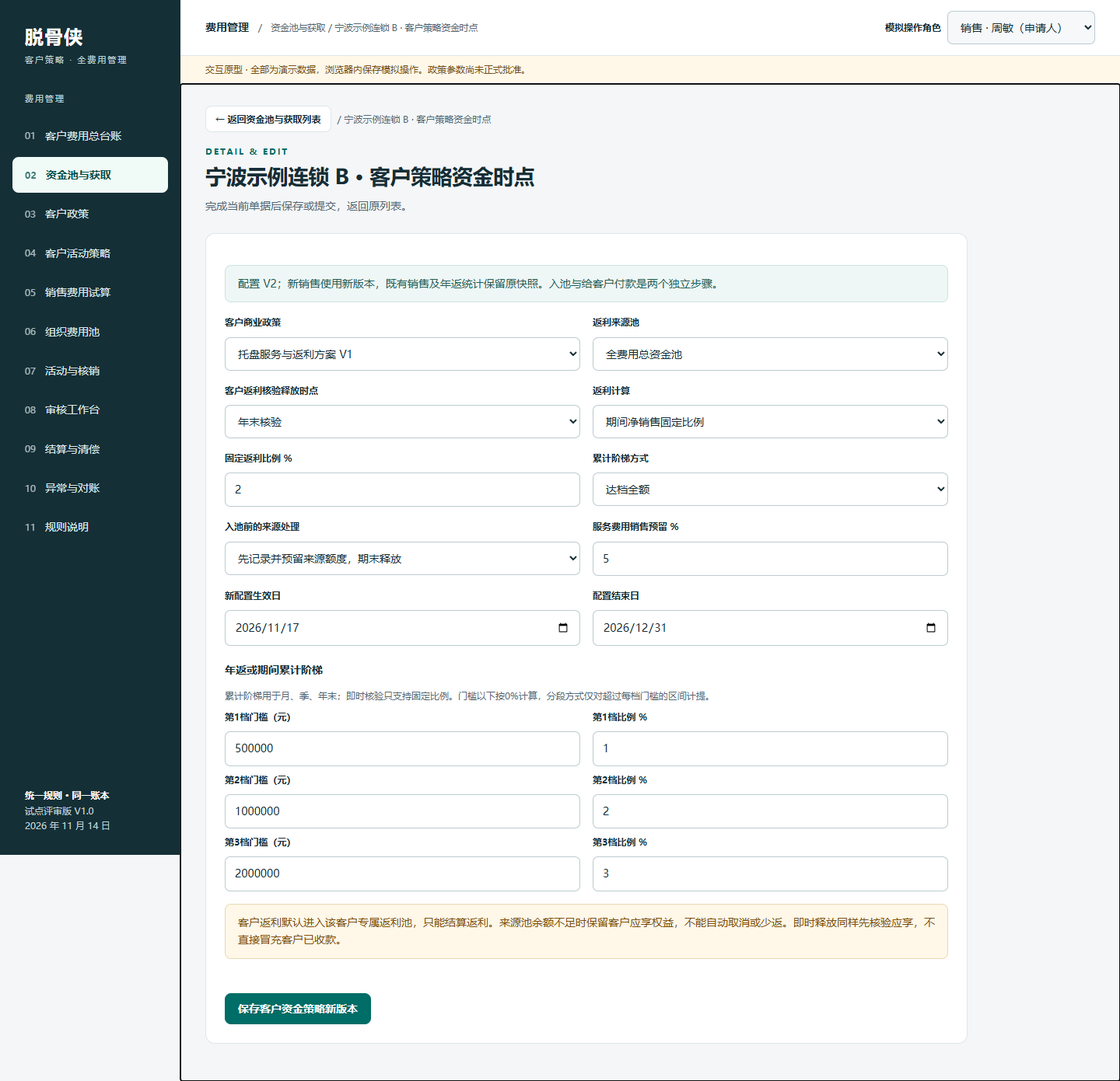
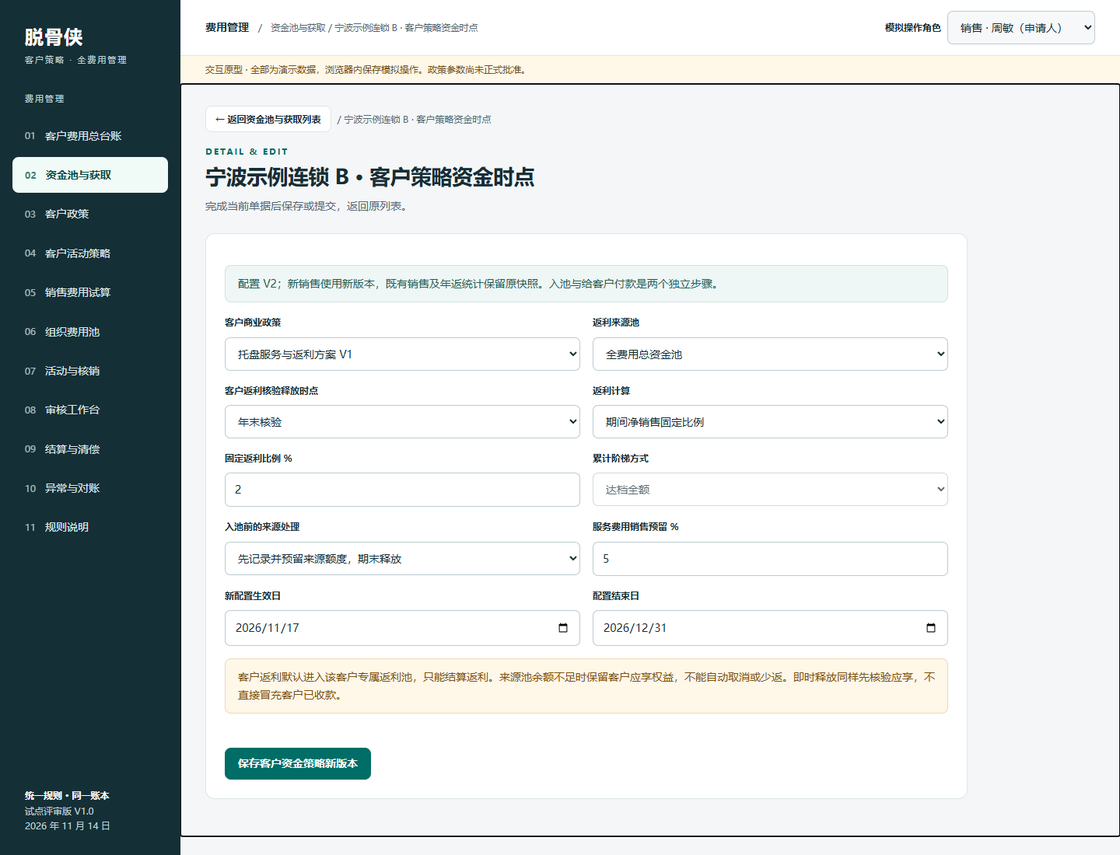
Auto sync 2026-11-17 11:57:51

diff --git a/09-设计与原型/全费用管理/原型.html b/09-设计与原型/全费用管理/原型.html
@@ -1802,8 +1802,8 @@ function fundingPeriodView(){return`<section class="card">${table(['期间 / 类
 function fundingFlowsView(){const f=state.funding;return`<section class="card"><h2>销售获取入池流水</h2>${table(['流水','目标池 / 客户','来源销售或批次','入池 / 服务预留 / 即时返利预留','日期'],f.credits.map(c=>[c.id,c.pool+' / '+customer(c.customer).name,c.sale||c.batch,money(c.amount)+' / '+money(c.service||0)+' / '+money(c.rebate||0),c.date]))}<h2 style="margin-top:24px">返利来源划拨</h2>${table(['流水','来源 → 返利专属池','客户 / 批次','金额','日期'],f.transfers.map(t=>[t.id,t.source+' → '+t.target,customer(t.customer).name+' / '+t.batch,money(t.amount),t.date]))}<h2 style="margin-top:24px">已发放返利</h2>${table(['清偿流水','客户 / 批次','方式','金额','业务日期'],f.payouts.map(p=>[esc(p.ref),customer(p.customer).name+' / '+p.batch,p.method==='cash'?'现金':'货款抵扣',money(p.amount),p.date]))}</section>`}
 function openFundingPool(id){const p=state.funding.pools.find(p=>p.id===id)||{name:'',initial:0,cap:10000000,from:FUND_CUTOVER,to:'2026-12-31',kind:'operating',status:'draft',ratios:[10,20,20,50]},active=p.status==='active';launchPage({kind:'fundingPool',id},()=>showModal(id?'资金池配置':'新建资金池',`<form id="fundingPoolForm" data-id="${id||''}"><div class="fields">${ff('fpName','资金池名称 *',p.name,'text','required maxlength="60"')}${ff('fpInitial','初始来源（元）',p.initial/100,'number',`min="0" step="0.01" required ${active?'readonly':''}`)}${ff('fpCap','预算上限（元）',p.kind==='rebate'?p.initial/100:p.cap/100,'number',`min="0" step="0.01" required ${p.kind==='rebate'?'readonly':''}`)}${ff('fpFrom','开始日期',p.from,'date','required')}${ff('fpTo','结束日期',p.to,'date','required')}${(p.ratios||[0,0,0,100]).map((v,i)=>ff('fpRatio'+i,['总部','中心','大区','省区'][i]+'分配 %',v,'number',`min="0" max="100" step="0.01" required ${active?'readonly':''}`)).join('')}</div><p class="note">启用后初始来源及组织比例固定，补充资金可新建独立来源池，避免改写历史。修改上限由财务角色处理，不能降到已使用和承诺之下。</p><p id="fundingError" class="error-text" role="alert"></p><button class="primary">保存资金池配置</button></form>`))}
 function fundingTierFields(prefix,tiers){return tiers.map((t,i)=>`<div class="fields" style="margin-top:8px">${ff(prefix+'Min'+i,'第'+(i+1)+'档门槛（元）',t.min/100,'number','min="0" step="0.01" required')}${ff(prefix+'Rate'+i,'第'+(i+1)+'档比例 %',t.rate,'number','min="0" max="100" step="0.01" required')}</div>`).join('')}
-function openFundingRule(id){const r=state.funding.rules.find(r=>r.id===id)||{name:'',pool:MAIN_POOL,customer:'*',sku:'*',method:'rate',rate:10,unit:100,timing:'instant',from:FUND_CUTOVER,to:'2026-12-31',tiers:[{min:5000000,rate:1},{min:10000000,rate:2},{min:20000000,rate:3}]};launchPage({kind:'fundingRule',id},()=>showModal('资金获取规则'+(id?'新版本':''),`<form id="fundingRuleForm" data-id="${id||''}"><div class="fields">${ff('frName','规则名称 *',r.name,'text','required')}${fs('frPool','目标资金池',state.funding.pools.filter(p=>p.kind==='operating'&&p.status==='active').map(p=>[p.id,p.name]),r.pool)}${fs('frCustomer','适用客户',[['*','全部客户'],...customers.map(c=>[c.id,c.name])],r.customer)}${ff('frSku','适用 SKU，* 为全部',r.sku,'text','required')}${fs('frMethod','获取方式',[['rate','销售金额比例'],['quantity','每数量固定金额'],['tier','单笔金额阶梯达档全额']],r.method)}${ff('frRate','金额比例 %',r.rate,'number','min="0" max="100" step="0.01" required')}${ff('frUnit','每数量获取（元）',r.unit/100,'number','min="0" step="0.01" required')}${fs('frTiming','入池时点',Object.entries(fundingTiming),r.timing)}${ff('frFrom','生效日期',r.from,'date','required')}${ff('frTo','结束日期',r.to,'date','required')}</div><h3>单笔阶梯（选择阶梯方式时生效）</h3>${fundingTierFields('fr',r.tiers)}<p class="note">完成签收后自动匹配。月、季、年末方式只先记录待入池，核验审批后才增加可用来源。保存新版本不会重算历史销售。</p><p id="fundingError" class="error-text" role="alert"></p><button class="primary">保存规则新版本</button></form>`))}
-function openFundingBinding(id){const l=state.funding.bindings.find(l=>l.id===id);launchPage({kind:'fundingBinding',id},()=>showModal(customer(l.customer).name+' · 客户策略资金时点',`<form id="fundingBindingForm" data-id="${id}"><div class="banner">配置 V${l.version}；新销售使用新版本，既有销售及年返统计保留原快照。入池与给客户付款是两个独立步骤。</div><div class="fields">${fs('fbPolicy','客户商业政策',state.policySchemes.filter(p=>p.customer===l.customer&&p.status==='active').map(p=>[p.id,p.name+' V'+p.version]),l.policyId)}${fs('fbPool','返利来源池',state.funding.pools.filter(p=>p.kind==='operating'&&p.status==='active').map(p=>[p.id,p.name]),l.sourcePool)}${fs('fbTiming','客户返利核验释放时点',Object.entries(fundingTiming),l.rebateTiming)}${fs('fbMethod','返利计算',[['rate','期间净销售固定比例'],['tier','期间累计阶梯']],l.rebateMethod)}${ff('fbRate','固定返利比例 %',l.rebateRate,'number','min="0" max="100" step="0.01" required')}${fs('fbTierMode','累计阶梯方式',[['whole','达档全额'],['segment','按区间分段']],l.tierMode)}${fs('fbLock','入池前的来源处理',[['no','先记录，期末再从来源池划拨'],['yes','先记录并预留来源额度，期末释放']],l.lockEarly?'yes':'no')}${ff('fbService','服务费用销售预留 %',l.serviceRate,'number','min="0" max="100" step="0.01" required')}${ff('fbFrom','新配置生效日',l.from,'date','required')}${ff('fbTo','配置结束日',l.to,'date','required')}</div><h3>年返或期间累计阶梯</h3><p class="note">累计阶梯用于月、季、年末；即时核验只支持固定比例。门槛以下按0%计算，分段方式仅对超过每档门槛的区间计提。</p>${fundingTierFields('fb',l.tiers)}<div class="banner warn">客户返利默认进入该客户专属返利池，只能结算返利。来源池余额不足时保留客户应享权益，不能自动取消或少返。即时释放同样先核验应享，不直接冒充客户已收款。</div><p id="fundingError" class="error-text" role="alert"></p><button class="primary">保存客户资金策略新版本</button></form>`))}
+function openFundingRule(id){const r=state.funding.rules.find(r=>r.id===id)||{name:'',pool:MAIN_POOL,customer:'*',sku:'*',method:'rate',rate:10,unit:100,timing:'instant',from:FUND_CUTOVER,to:'2026-12-31',tiers:[{min:5000000,rate:1},{min:10000000,rate:2},{min:20000000,rate:3}]};launchPage({kind:'fundingRule',id},()=>showModal('资金获取规则'+(id?'新版本':''),`<form id="fundingRuleForm" data-id="${id||''}"><div class="fields">${ff('frName','规则名称 *',r.name,'text','required')}${fs('frPool','目标资金池',state.funding.pools.filter(p=>p.kind==='operating'&&p.status==='active').map(p=>[p.id,p.name]),r.pool)}${fs('frCustomer','适用客户',[['*','全部客户'],...customers.map(c=>[c.id,c.name])],r.customer)}${ff('frSku','适用 SKU，* 为全部',r.sku,'text','required')}${fs('frMethod','获取方式',[['rate','销售金额比例'],['quantity','每数量固定金额'],['tier','单笔金额阶梯达档全额']],r.method)}${ff('frRate','金额比例 %',r.rate,'number','min="0" max="100" step="0.01" required')}${ff('frUnit','每数量获取（元）',r.unit/100,'number','min="0" step="0.01" required')}${fs('frTiming','入池时点',Object.entries(fundingTiming),r.timing)}${ff('frFrom','生效日期',r.from,'date','required')}${ff('frTo','结束日期',r.to,'date','required')}</div><section id="frTierSection"><h3>单笔阶梯</h3>${fundingTierFields('fr',r.tiers)}</section><p class="note">完成签收后自动匹配。月、季、年末方式只先记录待入池，核验审批后才增加可用来源。保存新版本不会重算历史销售。</p><p id="fundingError" class="error-text" role="alert"></p><button class="primary">保存规则新版本</button></form>`))}
+function openFundingBinding(id){const l=state.funding.bindings.find(l=>l.id===id);launchPage({kind:'fundingBinding',id},()=>showModal(customer(l.customer).name+' · 客户策略资金时点',`<form id="fundingBindingForm" data-id="${id}"><div class="banner">配置 V${l.version}；新销售使用新版本，既有销售及年返统计保留原快照。入池与给客户付款是两个独立步骤。</div><div class="fields">${fs('fbPolicy','客户商业政策',state.policySchemes.filter(p=>p.customer===l.customer&&p.status==='active').map(p=>[p.id,p.name+' V'+p.version]),l.policyId)}${fs('fbPool','返利来源池',state.funding.pools.filter(p=>p.kind==='operating'&&p.status==='active').map(p=>[p.id,p.name]),l.sourcePool)}${fs('fbTiming','客户返利核验释放时点',Object.entries(fundingTiming),l.rebateTiming)}${fs('fbMethod','返利计算',[['rate','期间净销售固定比例'],['tier','期间累计阶梯']],l.rebateMethod)}${ff('fbRate','固定返利比例 %',l.rebateRate,'number','min="0" max="100" step="0.01" required')}${fs('fbTierMode','累计阶梯方式',[['whole','达档全额'],['segment','按区间分段']],l.tierMode)}${fs('fbLock','入池前的来源处理',[['no','先记录，期末再从来源池划拨'],['yes','先记录并预留来源额度，期末释放']],l.lockEarly?'yes':'no')}${ff('fbService','服务费用销售预留 %',l.serviceRate,'number','min="0" max="100" step="0.01" required')}${ff('fbFrom','新配置生效日',l.from,'date','required')}${ff('fbTo','配置结束日',l.to,'date','required')}</div><section id="fbTierSection"><h3>年返或期间累计阶梯</h3><p class="note">累计阶梯用于月、季、年末；即时核验只支持固定比例。门槛以下按0%计算，分段方式仅对超过每档门槛的区间计提。</p>${fundingTierFields('fb',l.tiers)}</section><div class="banner warn">客户返利默认进入该客户专属返利池，只能结算返利。来源池余额不足时保留客户应享权益，不能自动取消或少返。即时释放同样先核验应享，不直接冒充客户已收款。</div><p id="fundingError" class="error-text" role="alert"></p><button class="primary">保存客户资金策略新版本</button></form>`))}
 function openFundingSale(){launchPage({kind:'fundingSale'},()=>showModal('登记销售完成事件',`<form id="fundingSaleForm"><div class="fields">${fs('saleKind','业务事件',[['sale','有效签收销售'],['return','关联原销售退货']],'sale')}${fs('saleCustomer','归属客户',customers.map(c=>[c.id,c.name]),'A')}${ff('saleDoc','来源订单 / 退货单号 *','','text','required maxlength="60"')}${ff('saleLine','来源行号 *','1','text','required maxlength="30"')}${ff('saleSku','销售 SKU *','TGX-DEMO-001','text','required')}${ff('saleAmount','不含税净销售 / 本次退货金额（元）',100000,'number','min="0.01" step="0.01" required')}${ff('saleQty','销售 / 退货数量',100,'number','min="0" step="0.01" required')}${ff('saleDate','签收 / 退货业务日期',state.funding.date,'date','required')}${fs('saleOriginal','退货关联原销售（销售事件时不使用）',[['','请选择'],...state.funding.sales.filter(s=>s.kind==='sale').map(s=>[s.id,s.id+' / '+customer(s.customer).name+' / '+s.doc])],'','disabled')}</div><p class="note">退货继承原客户、政策、获取规则及统计期间。提交后生成有来源的入池流水，重复订单行不会重复入池。</p><p id="fundingError" class="error-text" role="alert"></p><button class="primary">确认销售事件并同步资金池</button></form>`))}
 function openFundingBatch(id){const b=state.funding.batches.find(b=>b.id===id);launchPage({kind:'fundingBatch',id},()=>showModal('期间核验 · '+b.id,`<h2>${b.kind==='earn'?'销售获取入池':'客户返利释放'} · ${customer(b.customer).name}</h2>${table(['事项','内容'],[['期间',b.period.key+'，截止 '+b.period.end],['累计计费基数',money(b.basis)],['本次审批差额',money(b.amount)],['目标',b.kind==='rebate'?'从 '+b.pool+' 划拨至客户返利专属池，形成返利应付':'增加 '+b.pool+' 已获取来源'],['当前状态',b.status==='pending'?'待 '+roles[['business','finance'][b.step]]:b.status]])}<h3>审批记录</h3>${table(['岗位','动作','业务日 / 意见'],b.logs.map(l=>[roles[l.who],l.action,l.date+' / '+esc(l.note||'—')]))}${b.status==='pending'?`<label for="fundingOpinion">意见（驳回必填）</label><textarea id="fundingOpinion"></textarea><p id="fundingError" class="error-text" role="alert"></p><div class="actions"><button data-funding-reject="${id}" class="danger">驳回</button><button data-funding-approve="${id}" class="primary">通过当前节点</button></div>`:''}<p class="note">核验通过不等于客户已收到款项。返利批次审批后，在结算与清偿中登记发放；原销售、统计快照及流水保留。</p>`))}
 function openFundingPayout(id){const b=state.funding.batches.find(b=>b.id===id),paid=sum(state.funding.payouts.filter(p=>p.batch===id).map(p=>p.amount));if($('role').value!=='finance')return toast('请切换为财务角色登记返利发放。',true);showModal('客户返利发放',`<form id="fundingPayoutForm" data-id="${id}"><p>${customer(b.customer).name} / ${id}，尚未清偿 ${money(b.amount-paid)}</p>${ff('rebatePayAmount','本次发放（元）',(b.amount-paid)/100,'number','min="0.01" step="0.01" required')}${fs('rebatePayMethod','发放方式',[['cash','现金支付'],['offset','货款抵扣']],'cash')}${ff('rebatePayRef','财务回写流水号 *','','text','required')}<p id="fundingError" class="error-text" role="alert"></p><button class="primary">确认返利清偿回写</button></form>`)}
@@ -1823,14 +1823,17 @@ document.addEventListener('click',e=>{const b=e.target.closest('button');if(!b)r
 document.addEventListener('change',e=>{if(e.target.id==='fundingDate'){if(!/^\d{4}-\d{2}-\d{2}$/.test(e.target.value))return;state.funding.date=e.target.value;save();render();toast('仅切换本地模拟业务日，未自动提前入池。')}});
 document.addEventListener('submit',e=>{const f=e.target;if(!['fundingPoolForm','fundingRuleForm','fundingBindingForm','fundingSaleForm','fundingPayoutForm'].includes(f.id))return;e.preventDefault();try{if(!f.reportValidity())return;const data=state.funding;
  if(f.id==='fundingPoolForm'){requireFundingFinance();const old=data.pools.find(p=>p.id===f.dataset.id);if(old?.kind==='rebate')throw Error('客户返利池由批准批次自动维护，不能手动注资或改用途。');const ratios=[0,1,2,3].map(i=>Number($('fpRatio'+i).value));if(old?.status==='active'&&ratios.some((v,i)=>v!==old.ratios[i]))throw Error('已启用池的组织比例固定，请新建资金池承接新的分配。');if(Math.abs(sum(ratios)-100)>.00001)throw Error('组织分配比例合计必须为100%。');if($('fpFrom').value>$('fpTo').value)throw Error('结束日期不能早于开始日期。');const initial=old?.status==='active'?old.initial:cents($('fpInitial').value),cap=cents($('fpCap').value);if(cap<initial)throw Error('预算上限不能低于初始来源。');if(old&&cap<fundingPoolTotals(old.id).source)throw Error('上限不能低于已形成的有效来源。');const p={...(old||{id:nextId('POOL-',data.pools),status:'draft',kind:'operating'}),name:$('fpName').value.trim(),initial,cap,ratios,from:$('fpFrom').value,to:$('fpTo').value};if(!p.name)throw Error('请填写名称。');if(old)data.pools[data.pools.indexOf(old)]=p;else data.pools.push(p);save();finishDetail();return toast('资金池配置已保存；新池需财务启用后才能获取资金。')}
- if(f.id==='fundingRuleForm'){requireFundingFinance();const old=data.rules.find(r=>r.id===f.dataset.id),pool=data.pools.find(p=>p.id===$('frPool').value),from=$('frFrom').value,to=$('frTo').value;if(from>to||from<pool.from||to>pool.to)throw Error('规则有效期应处于目标资金池期间内。');const r={id:old?.id||nextId('GET-',data.rules),version:(old?.version||0)+1,name:$('frName').value.trim(),pool:pool.id,customer:$('frCustomer').value,sku:$('frSku').value.trim(),method:$('frMethod').value,rate:Number($('frRate').value),unit:cents($('frUnit').value),timing:$('frTiming').value,tiers:readFundingTiers('fr'),from,to,status:'active'};if(!r.name||!r.sku)throw Error('规则名称及 SKU 不能为空。');if(old){data.ruleVersions=data.ruleVersions||[];data.ruleVersions.push(clone(old));data.rules[data.rules.indexOf(old)]=r}else data.rules.push(r);save();finishDetail();return toast('新版本规则已生效，原销售快照不变。')}
- if(f.id==='fundingBindingForm'){requireFundingFinance();const old=data.bindings.find(l=>l.id===f.dataset.id),policy=state.policySchemes.find(p=>p.id===$('fbPolicy').value),from=$('fbFrom').value,to=$('fbTo').value;if(!policy||policy.customer!==old.customer||from>to||from<policy.from||to>policy.to)throw Error('客户策略期间必须在所选商业政策期间内。');const l={...clone(old),version:old.version+1,policyId:policy.id,sourcePool:$('fbPool').value,rebateTiming:$('fbTiming').value,rebateMethod:$('fbMethod').value,rebateRate:Number($('fbRate').value),tierMode:$('fbTierMode').value,lockEarly:$('fbLock').value==='yes',serviceRate:Number($('fbService').value),tiers:readFundingTiers('fb'),from,to};if(l.rebateTiming==='instant'&&l.rebateMethod==='tier')throw Error('累计阶梯请使用月末、季末或年末核验；即时核验使用固定比例。');data.bindingVersions=data.bindingVersions||[];data.bindingVersions.push(clone(old));data.bindings[data.bindings.indexOf(old)]=l;save();finishDetail();return toast('客户策略资金时点已保存，新销售使用新版本。')}
+ if(f.id==='fundingRuleForm'){requireFundingFinance();const old=data.rules.find(r=>r.id===f.dataset.id),pool=data.pools.find(p=>p.id===$('frPool').value),from=$('frFrom').value,to=$('frTo').value;if(from>to||from<pool.from||to>pool.to)throw Error('规则有效期应处于目标资金池期间内。');const r={id:old?.id||nextId('GET-',data.rules),version:(old?.version||0)+1,name:$('frName').value.trim(),pool:pool.id,customer:$('frCustomer').value,sku:$('frSku').value.trim(),method:$('frMethod').value,rate:Number($('frRate').value),unit:cents($('frUnit').value),timing:$('frTiming').value,tiers:$('frMethod').value==='tier'?readFundingTiers('fr'):clone(old?.tiers||[{min:5000000,rate:1},{min:10000000,rate:2},{min:20000000,rate:3}]),from,to,status:'active'};if(!r.name||!r.sku)throw Error('规则名称及 SKU 不能为空。');if(old){data.ruleVersions=data.ruleVersions||[];data.ruleVersions.push(clone(old));data.rules[data.rules.indexOf(old)]=r}else data.rules.push(r);save();finishDetail();return toast('新版本规则已生效，原销售快照不变。')}
+ if(f.id==='fundingBindingForm'){requireFundingFinance();const old=data.bindings.find(l=>l.id===f.dataset.id),policy=state.policySchemes.find(p=>p.id===$('fbPolicy').value),from=$('fbFrom').value,to=$('fbTo').value;if(!policy||policy.customer!==old.customer||from>to||from<policy.from||to>policy.to)throw Error('客户策略期间必须在所选商业政策期间内。');const l={...clone(old),version:old.version+1,policyId:policy.id,sourcePool:$('fbPool').value,rebateTiming:$('fbTiming').value,rebateMethod:$('fbMethod').value,rebateRate:Number($('fbRate').value),tierMode:$('fbTierMode').value,lockEarly:$('fbLock').value==='yes',serviceRate:Number($('fbService').value),tiers:$('fbMethod').value==='tier'?readFundingTiers('fb'):clone(old.tiers),from,to};if(l.rebateTiming==='instant'&&l.rebateMethod==='tier')throw Error('累计阶梯请使用月末、季末或年末核验；即时核验使用固定比例。');data.bindingVersions=data.bindingVersions||[];data.bindingVersions.push(clone(old));data.bindings[data.bindings.indexOf(old)]=l;save();finishDetail();return toast('客户策略资金时点已保存，新销售使用新版本。')}
  if(f.id==='fundingSaleForm'){if($('role').value!=='sales')throw Error('请切换为销售角色提交销售完成事件。');const s=postFundingSale({kind:$('saleKind').value,customer:$('saleCustomer').value,doc:$('saleDoc').value,line:$('saleLine').value,sku:$('saleSku').value.trim(),base:cents($('saleAmount').value),qty:Number($('saleQty').value),date:$('saleDate').value,original:$('saleOriginal').value});log('销售与资金同步',s.id+' / '+s.status+'，获取规则 '+s.rule.id+' V'+s.rule.version);finishDetail();return toast(s.status==='posted'?'销售已入账，资金池及客户数据已更新。':s.status==='period'?'销售已累计，未到期间核验前不增加可用资金。':'销售已记录，超过上限的资金等待处理。')}
  if(f.id==='fundingPayoutForm'){requireFundingFinance();const b=data.batches.find(b=>b.id===f.dataset.id);if(b?.status!=='approved'||b.kind!=='rebate'||data.date<b.period.end)throw Error('该批次尚未满足返利清偿条件。');const group=fundingGroups().find(g=>g.key===b.key);if(group?.delta<0)throw Error('原销售调整后应享减少，先进入冲销或追偿核对，暂停继续发放。');const amount=cents($('rebatePayAmount').value),ref=$('rebatePayRef').value.trim(),paid=sum(data.payouts.filter(p=>p.batch===b.id).map(p=>p.amount));if(data.payouts.some(p=>p.ref===ref)||!ref)throw Error('财务流水号为空或已回写，不能重复发放。');if(amount<=0||amount>b.amount-paid||amount>fundingPoolTotals(b.targetPool).available)throw Error('超过批次应付或客户返利池可用余额。');data.payouts.push({id:nextId('REBATE-PAY-',data.payouts),batch:b.id,pool:b.targetPool,customer:b.customer,amount,ref,method:$('rebatePayMethod').value,date:data.date});log('客户返利清偿',b.id+' / '+money(amount)+'，不再次扣来源池。');closeModal();render();return toast('返利清偿已回写，客户返利池和客户台账已同步。')}
  }catch(error){fundingFail(error)}});
 
-function syncFundingReturnFields(){if(!$('fundingSaleForm'))return;const isReturn=$('saleKind').value==='return',original=$('saleOriginal');original.disabled=!isReturn;original.required=isReturn;$('saleCustomer').disabled=isReturn;$('saleSku').readOnly=isReturn;for(const id of ['saleAmount','saleQty'])$(id).removeAttribute('max');$('saleDate').removeAttribute('min');if(isReturn&&original.value){const s=state.funding.sales.find(s=>s.id===original.value),returns=state.funding.sales.filter(r=>r.original===s.id);$('saleCustomer').value=s.customer;$('saleSku').value=s.sku;const base=s.base+sum(returns.map(r=>r.base)),qty=s.qty+sum(returns.map(r=>r.qty));$('saleAmount').value=base/100;$('saleAmount').max=base/100;$('saleQty').value=qty;$('saleQty').max=qty;$('saleDate').min=s.date;if(!base)$('fundingError').textContent='该原销售已全额退货，请选择其他销售行。'}}
+function syncFundingReturnFields(fill=true){if(!$('fundingSaleForm'))return;const isReturn=$('saleKind').value==='return',original=$('saleOriginal');original.disabled=!isReturn;original.required=isReturn;$('saleCustomer').disabled=isReturn;$('saleSku').readOnly=isReturn;for(const id of ['saleAmount','saleQty'])$(id).removeAttribute('max');$('saleDate').removeAttribute('min');if(isReturn&&original.value){const s=state.funding.sales.find(s=>s.id===original.value),returns=state.funding.sales.filter(r=>r.original===s.id);$('saleCustomer').value=s.customer;$('saleSku').value=s.sku;const base=s.base+sum(returns.map(r=>r.base)),qty=s.qty+sum(returns.map(r=>r.qty));if(fill)$('saleAmount').value=base/100;$('saleAmount').max=base/100;if(fill)$('saleQty').value=qty;$('saleQty').max=qty;$('saleDate').min=s.date;if(!base)$('fundingError').textContent='该原销售已全额退货，请选择其他销售行。'}}
 document.addEventListener('change',e=>{if(['saleKind','saleOriginal'].includes(e.target.id))syncFundingReturnFields()});
+
+function syncFundingConfigVisibility(){const field=(id,show)=>{const node=$(id);if(!node)return;node.closest('.field').hidden=!show;node.disabled=!show},section=(id,show)=>{const node=$(id);if(!node)return;node.hidden=!show;node.querySelectorAll('input,select').forEach(x=>x.disabled=!show)};if($('frMethod')){const m=$('frMethod').value;field('frRate',m==='rate');field('frUnit',m==='quantity');section('frTierSection',m==='tier')}if($('fbMethod')){const tier=$('fbMethod').value==='tier';field('fbRate',!tier);field('fbTierMode',tier);section('fbTierSection',tier)}}
+document.addEventListener('change',e=>{if(['frMethod','fbMethod'].includes(e.target.id))syncFundingConfigVisibility()});
 
 // 将新的销售获取流水接入原组织余额、客户台账、活动审批和清偿，保留旧期初。
 let activityFundingContext=null;const beforeFundingBalances=balances,beforeFundingPools=poolsView,beforeFundingCustomerData=customerLedgerData,beforeFundingCustomerBody=customerLedgerBody,beforeFundingActivity=newActivity,beforeFundingSubmit=submitActivity,beforeFundingApprove=approve,beforeFundingApprovalView=approvalView,beforeFundingSettlement=settlementView,beforeFundingRender=render;
@@ -1847,7 +1850,7 @@ submitActivity=function(form){const id=$('activitySourcePool')?.value||state.act
 approve=function(id,reject=false){const a=state.activities.find(a=>a.id===id);activityFundingContext=a.fundingPoolId||MAIN_POOL;try{return beforeFundingApprove(id,reject)}finally{activityFundingContext=null;if(!detailPage)render()}};
 approvalView=function(){ensureFunding();return beforeFundingApprovalView()+`<section class="card" style="margin-top:24px"><h2>资金入池与客户返利期间核验</h2>${table(['批次 / 期间','客户','类型及金额','节点','操作'],state.funding.batches.filter(b=>b.status==='pending').map(b=>[b.id+' / '+b.period.key,customer(b.customer).name,(b.kind==='earn'?'销售获取':'客户返利')+' '+money(b.amount),roles[['business','finance'][b.step]],`<button data-funding-batch="${b.id}">进入核验</button>`]))}</section>`};
 settlementView=function(){ensureFunding();return beforeFundingSettlement()+`<section class="card" style="margin-top:24px"><h2>客户返利应付与发放</h2>${table(['批次 / 客户','客户专属池','已确认应付','已发放','待付','操作'],state.funding.batches.filter(b=>b.kind==='rebate'&&b.status==='approved').map(b=>{const paid=sum(state.funding.payouts.filter(p=>p.batch===b.id).map(p=>p.amount));return[b.id+' / '+customer(b.customer).name,b.targetPool,money(b.amount),money(paid),money(b.amount-paid),`<button data-funding-payout="${b.id}" ${paid===b.amount?'disabled':''}>${paid===b.amount?'已清偿':'登记客户返利发放'}</button>`]}))}</section>`};
-render=function(){ensureFunding();beforeFundingRender();if(detailPage?.route.kind==='policy'&&$('fullPageBody')){const p=state.policySchemes.find(p=>p.id===detailPage.route.id);if(p)$('fullPageBody').insertAdjacentHTML('beforeend',customerFundingPanel(p.customer))}};
+render=function(){ensureFunding();beforeFundingRender();syncFundingConfigVisibility();syncFundingReturnFields(false);if(detailPage?.route.kind==='policy'&&$('fullPageBody')){const p=state.policySchemes.find(p=>p.id===detailPage.route.id);if(p)$('fullPageBody').insertAdjacentHTML('beforeend',customerFundingPanel(p.customer))}};
 document.addEventListener('click',e=>{const b=e.target.closest('button');if(!b)return;if(b.dataset.fundingGo){fundingTab=b.dataset.fundingGo;navigate('funding')}if(b.dataset.fundingClientConfig){const l=state.funding.bindings.find(l=>l.customer===b.dataset.fundingClientConfig);if(l)openFundingBinding(l.id)}});
 
 const oldFundingSandboxInitial=initialFundSandbox;

diff --git a/09-设计与原型/全费用管理/funding-ui.js b/09-设计与原型/全费用管理/funding-ui.js
@@ -11,8 +11,8 @@ function fundingPeriodView(){return`<section class="card">${table(['期间 / 类
 function fundingFlowsView(){const f=state.funding;return`<section class="card"><h2>销售获取入池流水</h2>${table(['流水','目标池 / 客户','来源销售或批次','入池 / 服务预留 / 即时返利预留','日期'],f.credits.map(c=>[c.id,c.pool+' / '+customer(c.customer).name,c.sale||c.batch,money(c.amount)+' / '+money(c.service||0)+' / '+money(c.rebate||0),c.date]))}<h2 style="margin-top:24px">返利来源划拨</h2>${table(['流水','来源 → 返利专属池','客户 / 批次','金额','日期'],f.transfers.map(t=>[t.id,t.source+' → '+t.target,customer(t.customer).name+' / '+t.batch,money(t.amount),t.date]))}<h2 style="margin-top:24px">已发放返利</h2>${table(['清偿流水','客户 / 批次','方式','金额','业务日期'],f.payouts.map(p=>[esc(p.ref),customer(p.customer).name+' / '+p.batch,p.method==='cash'?'现金':'货款抵扣',money(p.amount),p.date]))}</section>`}
 function openFundingPool(id){const p=state.funding.pools.find(p=>p.id===id)||{name:'',initial:0,cap:10000000,from:FUND_CUTOVER,to:'2026-12-31',kind:'operating',status:'draft',ratios:[10,20,20,50]},active=p.status==='active';launchPage({kind:'fundingPool',id},()=>showModal(id?'资金池配置':'新建资金池',`<form id="fundingPoolForm" data-id="${id||''}"><div class="fields">${ff('fpName','资金池名称 *',p.name,'text','required maxlength="60"')}${ff('fpInitial','初始来源（元）',p.initial/100,'number',`min="0" step="0.01" required ${active?'readonly':''}`)}${ff('fpCap','预算上限（元）',p.kind==='rebate'?p.initial/100:p.cap/100,'number',`min="0" step="0.01" required ${p.kind==='rebate'?'readonly':''}`)}${ff('fpFrom','开始日期',p.from,'date','required')}${ff('fpTo','结束日期',p.to,'date','required')}${(p.ratios||[0,0,0,100]).map((v,i)=>ff('fpRatio'+i,['总部','中心','大区','省区'][i]+'分配 %',v,'number',`min="0" max="100" step="0.01" required ${active?'readonly':''}`)).join('')}</div><p class="note">启用后初始来源及组织比例固定，补充资金可新建独立来源池，避免改写历史。修改上限由财务角色处理，不能降到已使用和承诺之下。</p><p id="fundingError" class="error-text" role="alert"></p><button class="primary">保存资金池配置</button></form>`))}
 function fundingTierFields(prefix,tiers){return tiers.map((t,i)=>`<div class="fields" style="margin-top:8px">${ff(prefix+'Min'+i,'第'+(i+1)+'档门槛（元）',t.min/100,'number','min="0" step="0.01" required')}${ff(prefix+'Rate'+i,'第'+(i+1)+'档比例 %',t.rate,'number','min="0" max="100" step="0.01" required')}</div>`).join('')}
-function openFundingRule(id){const r=state.funding.rules.find(r=>r.id===id)||{name:'',pool:MAIN_POOL,customer:'*',sku:'*',method:'rate',rate:10,unit:100,timing:'instant',from:FUND_CUTOVER,to:'2026-12-31',tiers:[{min:5000000,rate:1},{min:10000000,rate:2},{min:20000000,rate:3}]};launchPage({kind:'fundingRule',id},()=>showModal('资金获取规则'+(id?'新版本':''),`<form id="fundingRuleForm" data-id="${id||''}"><div class="fields">${ff('frName','规则名称 *',r.name,'text','required')}${fs('frPool','目标资金池',state.funding.pools.filter(p=>p.kind==='operating'&&p.status==='active').map(p=>[p.id,p.name]),r.pool)}${fs('frCustomer','适用客户',[['*','全部客户'],...customers.map(c=>[c.id,c.name])],r.customer)}${ff('frSku','适用 SKU，* 为全部',r.sku,'text','required')}${fs('frMethod','获取方式',[['rate','销售金额比例'],['quantity','每数量固定金额'],['tier','单笔金额阶梯达档全额']],r.method)}${ff('frRate','金额比例 %',r.rate,'number','min="0" max="100" step="0.01" required')}${ff('frUnit','每数量获取（元）',r.unit/100,'number','min="0" step="0.01" required')}${fs('frTiming','入池时点',Object.entries(fundingTiming),r.timing)}${ff('frFrom','生效日期',r.from,'date','required')}${ff('frTo','结束日期',r.to,'date','required')}</div><h3>单笔阶梯（选择阶梯方式时生效）</h3>${fundingTierFields('fr',r.tiers)}<p class="note">完成签收后自动匹配。月、季、年末方式只先记录待入池，核验审批后才增加可用来源。保存新版本不会重算历史销售。</p><p id="fundingError" class="error-text" role="alert"></p><button class="primary">保存规则新版本</button></form>`))}
-function openFundingBinding(id){const l=state.funding.bindings.find(l=>l.id===id);launchPage({kind:'fundingBinding',id},()=>showModal(customer(l.customer).name+' · 客户策略资金时点',`<form id="fundingBindingForm" data-id="${id}"><div class="banner">配置 V${l.version}；新销售使用新版本，既有销售及年返统计保留原快照。入池与给客户付款是两个独立步骤。</div><div class="fields">${fs('fbPolicy','客户商业政策',state.policySchemes.filter(p=>p.customer===l.customer&&p.status==='active').map(p=>[p.id,p.name+' V'+p.version]),l.policyId)}${fs('fbPool','返利来源池',state.funding.pools.filter(p=>p.kind==='operating'&&p.status==='active').map(p=>[p.id,p.name]),l.sourcePool)}${fs('fbTiming','客户返利核验释放时点',Object.entries(fundingTiming),l.rebateTiming)}${fs('fbMethod','返利计算',[['rate','期间净销售固定比例'],['tier','期间累计阶梯']],l.rebateMethod)}${ff('fbRate','固定返利比例 %',l.rebateRate,'number','min="0" max="100" step="0.01" required')}${fs('fbTierMode','累计阶梯方式',[['whole','达档全额'],['segment','按区间分段']],l.tierMode)}${fs('fbLock','入池前的来源处理',[['no','先记录，期末再从来源池划拨'],['yes','先记录并预留来源额度，期末释放']],l.lockEarly?'yes':'no')}${ff('fbService','服务费用销售预留 %',l.serviceRate,'number','min="0" max="100" step="0.01" required')}${ff('fbFrom','新配置生效日',l.from,'date','required')}${ff('fbTo','配置结束日',l.to,'date','required')}</div><h3>年返或期间累计阶梯</h3><p class="note">累计阶梯用于月、季、年末；即时核验只支持固定比例。门槛以下按0%计算，分段方式仅对超过每档门槛的区间计提。</p>${fundingTierFields('fb',l.tiers)}<div class="banner warn">客户返利默认进入该客户专属返利池，只能结算返利。来源池余额不足时保留客户应享权益，不能自动取消或少返。即时释放同样先核验应享，不直接冒充客户已收款。</div><p id="fundingError" class="error-text" role="alert"></p><button class="primary">保存客户资金策略新版本</button></form>`))}
+function openFundingRule(id){const r=state.funding.rules.find(r=>r.id===id)||{name:'',pool:MAIN_POOL,customer:'*',sku:'*',method:'rate',rate:10,unit:100,timing:'instant',from:FUND_CUTOVER,to:'2026-12-31',tiers:[{min:5000000,rate:1},{min:10000000,rate:2},{min:20000000,rate:3}]};launchPage({kind:'fundingRule',id},()=>showModal('资金获取规则'+(id?'新版本':''),`<form id="fundingRuleForm" data-id="${id||''}"><div class="fields">${ff('frName','规则名称 *',r.name,'text','required')}${fs('frPool','目标资金池',state.funding.pools.filter(p=>p.kind==='operating'&&p.status==='active').map(p=>[p.id,p.name]),r.pool)}${fs('frCustomer','适用客户',[['*','全部客户'],...customers.map(c=>[c.id,c.name])],r.customer)}${ff('frSku','适用 SKU，* 为全部',r.sku,'text','required')}${fs('frMethod','获取方式',[['rate','销售金额比例'],['quantity','每数量固定金额'],['tier','单笔金额阶梯达档全额']],r.method)}${ff('frRate','金额比例 %',r.rate,'number','min="0" max="100" step="0.01" required')}${ff('frUnit','每数量获取（元）',r.unit/100,'number','min="0" step="0.01" required')}${fs('frTiming','入池时点',Object.entries(fundingTiming),r.timing)}${ff('frFrom','生效日期',r.from,'date','required')}${ff('frTo','结束日期',r.to,'date','required')}</div><section id="frTierSection"><h3>单笔阶梯</h3>${fundingTierFields('fr',r.tiers)}</section><p class="note">完成签收后自动匹配。月、季、年末方式只先记录待入池，核验审批后才增加可用来源。保存新版本不会重算历史销售。</p><p id="fundingError" class="error-text" role="alert"></p><button class="primary">保存规则新版本</button></form>`))}
+function openFundingBinding(id){const l=state.funding.bindings.find(l=>l.id===id);launchPage({kind:'fundingBinding',id},()=>showModal(customer(l.customer).name+' · 客户策略资金时点',`<form id="fundingBindingForm" data-id="${id}"><div class="banner">配置 V${l.version}；新销售使用新版本，既有销售及年返统计保留原快照。入池与给客户付款是两个独立步骤。</div><div class="fields">${fs('fbPolicy','客户商业政策',state.policySchemes.filter(p=>p.customer===l.customer&&p.status==='active').map(p=>[p.id,p.name+' V'+p.version]),l.policyId)}${fs('fbPool','返利来源池',state.funding.pools.filter(p=>p.kind==='operating'&&p.status==='active').map(p=>[p.id,p.name]),l.sourcePool)}${fs('fbTiming','客户返利核验释放时点',Object.entries(fundingTiming),l.rebateTiming)}${fs('fbMethod','返利计算',[['rate','期间净销售固定比例'],['tier','期间累计阶梯']],l.rebateMethod)}${ff('fbRate','固定返利比例 %',l.rebateRate,'number','min="0" max="100" step="0.01" required')}${fs('fbTierMode','累计阶梯方式',[['whole','达档全额'],['segment','按区间分段']],l.tierMode)}${fs('fbLock','入池前的来源处理',[['no','先记录，期末再从来源池划拨'],['yes','先记录并预留来源额度，期末释放']],l.lockEarly?'yes':'no')}${ff('fbService','服务费用销售预留 %',l.serviceRate,'number','min="0" max="100" step="0.01" required')}${ff('fbFrom','新配置生效日',l.from,'date','required')}${ff('fbTo','配置结束日',l.to,'date','required')}</div><section id="fbTierSection"><h3>年返或期间累计阶梯</h3><p class="note">累计阶梯用于月、季、年末；即时核验只支持固定比例。门槛以下按0%计算，分段方式仅对超过每档门槛的区间计提。</p>${fundingTierFields('fb',l.tiers)}</section><div class="banner warn">客户返利默认进入该客户专属返利池，只能结算返利。来源池余额不足时保留客户应享权益，不能自动取消或少返。即时释放同样先核验应享，不直接冒充客户已收款。</div><p id="fundingError" class="error-text" role="alert"></p><button class="primary">保存客户资金策略新版本</button></form>`))}
 function openFundingSale(){launchPage({kind:'fundingSale'},()=>showModal('登记销售完成事件',`<form id="fundingSaleForm"><div class="fields">${fs('saleKind','业务事件',[['sale','有效签收销售'],['return','关联原销售退货']],'sale')}${fs('saleCustomer','归属客户',customers.map(c=>[c.id,c.name]),'A')}${ff('saleDoc','来源订单 / 退货单号 *','','text','required maxlength="60"')}${ff('saleLine','来源行号 *','1','text','required maxlength="30"')}${ff('saleSku','销售 SKU *','TGX-DEMO-001','text','required')}${ff('saleAmount','不含税净销售 / 本次退货金额（元）',100000,'number','min="0.01" step="0.01" required')}${ff('saleQty','销售 / 退货数量',100,'number','min="0" step="0.01" required')}${ff('saleDate','签收 / 退货业务日期',state.funding.date,'date','required')}${fs('saleOriginal','退货关联原销售（销售事件时不使用）',[['','请选择'],...state.funding.sales.filter(s=>s.kind==='sale').map(s=>[s.id,s.id+' / '+customer(s.customer).name+' / '+s.doc])],'','disabled')}</div><p class="note">退货继承原客户、政策、获取规则及统计期间。提交后生成有来源的入池流水，重复订单行不会重复入池。</p><p id="fundingError" class="error-text" role="alert"></p><button class="primary">确认销售事件并同步资金池</button></form>`))}
 function openFundingBatch(id){const b=state.funding.batches.find(b=>b.id===id);launchPage({kind:'fundingBatch',id},()=>showModal('期间核验 · '+b.id,`<h2>${b.kind==='earn'?'销售获取入池':'客户返利释放'} · ${customer(b.customer).name}</h2>${table(['事项','内容'],[['期间',b.period.key+'，截止 '+b.period.end],['累计计费基数',money(b.basis)],['本次审批差额',money(b.amount)],['目标',b.kind==='rebate'?'从 '+b.pool+' 划拨至客户返利专属池，形成返利应付':'增加 '+b.pool+' 已获取来源'],['当前状态',b.status==='pending'?'待 '+roles[['business','finance'][b.step]]:b.status]])}<h3>审批记录</h3>${table(['岗位','动作','业务日 / 意见'],b.logs.map(l=>[roles[l.who],l.action,l.date+' / '+esc(l.note||'—')]))}${b.status==='pending'?`<label for="fundingOpinion">意见（驳回必填）</label><textarea id="fundingOpinion"></textarea><p id="fundingError" class="error-text" role="alert"></p><div class="actions"><button data-funding-reject="${id}" class="danger">驳回</button><button data-funding-approve="${id}" class="primary">通过当前节点</button></div>`:''}<p class="note">核验通过不等于客户已收到款项。返利批次审批后，在结算与清偿中登记发放；原销售、统计快照及流水保留。</p>`))}
 function openFundingPayout(id){const b=state.funding.batches.find(b=>b.id===id),paid=sum(state.funding.payouts.filter(p=>p.batch===id).map(p=>p.amount));if($('role').value!=='finance')return toast('请切换为财务角色登记返利发放。',true);showModal('客户返利发放',`<form id="fundingPayoutForm" data-id="${id}"><p>${customer(b.customer).name} / ${id}，尚未清偿 ${money(b.amount-paid)}</p>${ff('rebatePayAmount','本次发放（元）',(b.amount-paid)/100,'number','min="0.01" step="0.01" required')}${fs('rebatePayMethod','发放方式',[['cash','现金支付'],['offset','货款抵扣']],'cash')}${ff('rebatePayRef','财务回写流水号 *','','text','required')}<p id="fundingError" class="error-text" role="alert"></p><button class="primary">确认返利清偿回写</button></form>`)}

diff --git a/09-设计与原型/全费用管理/funding-events.js b/09-设计与原型/全费用管理/funding-events.js
@@ -13,11 +13,14 @@ document.addEventListener('click',e=>{const b=e.target.closest('button');if(!b)r
 document.addEventListener('change',e=>{if(e.target.id==='fundingDate'){if(!/^\d{4}-\d{2}-\d{2}$/.test(e.target.value))return;state.funding.date=e.target.value;save();render();toast('仅切换本地模拟业务日，未自动提前入池。')}});
 document.addEventListener('submit',e=>{const f=e.target;if(!['fundingPoolForm','fundingRuleForm','fundingBindingForm','fundingSaleForm','fundingPayoutForm'].includes(f.id))return;e.preventDefault();try{if(!f.reportValidity())return;const data=state.funding;
  if(f.id==='fundingPoolForm'){requireFundingFinance();const old=data.pools.find(p=>p.id===f.dataset.id);if(old?.kind==='rebate')throw Error('客户返利池由批准批次自动维护，不能手动注资或改用途。');const ratios=[0,1,2,3].map(i=>Number($('fpRatio'+i).value));if(old?.status==='active'&&ratios.some((v,i)=>v!==old.ratios[i]))throw Error('已启用池的组织比例固定，请新建资金池承接新的分配。');if(Math.abs(sum(ratios)-100)>.00001)throw Error('组织分配比例合计必须为100%。');if($('fpFrom').value>$('fpTo').value)throw Error('结束日期不能早于开始日期。');const initial=old?.status==='active'?old.initial:cents($('fpInitial').value),cap=cents($('fpCap').value);if(cap<initial)throw Error('预算上限不能低于初始来源。');if(old&&cap<fundingPoolTotals(old.id).source)throw Error('上限不能低于已形成的有效来源。');const p={...(old||{id:nextId('POOL-',data.pools),status:'draft',kind:'operating'}),name:$('fpName').value.trim(),initial,cap,ratios,from:$('fpFrom').value,to:$('fpTo').value};if(!p.name)throw Error('请填写名称。');if(old)data.pools[data.pools.indexOf(old)]=p;else data.pools.push(p);save();finishDetail();return toast('资金池配置已保存；新池需财务启用后才能获取资金。')}
- if(f.id==='fundingRuleForm'){requireFundingFinance();const old=data.rules.find(r=>r.id===f.dataset.id),pool=data.pools.find(p=>p.id===$('frPool').value),from=$('frFrom').value,to=$('frTo').value;if(from>to||from<pool.from||to>pool.to)throw Error('规则有效期应处于目标资金池期间内。');const r={id:old?.id||nextId('GET-',data.rules),version:(old?.version||0)+1,name:$('frName').value.trim(),pool:pool.id,customer:$('frCustomer').value,sku:$('frSku').value.trim(),method:$('frMethod').value,rate:Number($('frRate').value),unit:cents($('frUnit').value),timing:$('frTiming').value,tiers:readFundingTiers('fr'),from,to,status:'active'};if(!r.name||!r.sku)throw Error('规则名称及 SKU 不能为空。');if(old){data.ruleVersions=data.ruleVersions||[];data.ruleVersions.push(clone(old));data.rules[data.rules.indexOf(old)]=r}else data.rules.push(r);save();finishDetail();return toast('新版本规则已生效，原销售快照不变。')}
- if(f.id==='fundingBindingForm'){requireFundingFinance();const old=data.bindings.find(l=>l.id===f.dataset.id),policy=state.policySchemes.find(p=>p.id===$('fbPolicy').value),from=$('fbFrom').value,to=$('fbTo').value;if(!policy||policy.customer!==old.customer||from>to||from<policy.from||to>policy.to)throw Error('客户策略期间必须在所选商业政策期间内。');const l={...clone(old),version:old.version+1,policyId:policy.id,sourcePool:$('fbPool').value,rebateTiming:$('fbTiming').value,rebateMethod:$('fbMethod').value,rebateRate:Number($('fbRate').value),tierMode:$('fbTierMode').value,lockEarly:$('fbLock').value==='yes',serviceRate:Number($('fbService').value),tiers:readFundingTiers('fb'),from,to};if(l.rebateTiming==='instant'&&l.rebateMethod==='tier')throw Error('累计阶梯请使用月末、季末或年末核验；即时核验使用固定比例。');data.bindingVersions=data.bindingVersions||[];data.bindingVersions.push(clone(old));data.bindings[data.bindings.indexOf(old)]=l;save();finishDetail();return toast('客户策略资金时点已保存，新销售使用新版本。')}
+ if(f.id==='fundingRuleForm'){requireFundingFinance();const old=data.rules.find(r=>r.id===f.dataset.id),pool=data.pools.find(p=>p.id===$('frPool').value),from=$('frFrom').value,to=$('frTo').value;if(from>to||from<pool.from||to>pool.to)throw Error('规则有效期应处于目标资金池期间内。');const r={id:old?.id||nextId('GET-',data.rules),version:(old?.version||0)+1,name:$('frName').value.trim(),pool:pool.id,customer:$('frCustomer').value,sku:$('frSku').value.trim(),method:$('frMethod').value,rate:Number($('frRate').value),unit:cents($('frUnit').value),timing:$('frTiming').value,tiers:$('frMethod').value==='tier'?readFundingTiers('fr'):clone(old?.tiers||[{min:5000000,rate:1},{min:10000000,rate:2},{min:20000000,rate:3}]),from,to,status:'active'};if(!r.name||!r.sku)throw Error('规则名称及 SKU 不能为空。');if(old){data.ruleVersions=data.ruleVersions||[];data.ruleVersions.push(clone(old));data.rules[data.rules.indexOf(old)]=r}else data.rules.push(r);save();finishDetail();return toast('新版本规则已生效，原销售快照不变。')}
+ if(f.id==='fundingBindingForm'){requireFundingFinance();const old=data.bindings.find(l=>l.id===f.dataset.id),policy=state.policySchemes.find(p=>p.id===$('fbPolicy').value),from=$('fbFrom').value,to=$('fbTo').value;if(!policy||policy.customer!==old.customer||from>to||from<policy.from||to>policy.to)throw Error('客户策略期间必须在所选商业政策期间内。');const l={...clone(old),version:old.version+1,policyId:policy.id,sourcePool:$('fbPool').value,rebateTiming:$('fbTiming').value,rebateMethod:$('fbMethod').value,rebateRate:Number($('fbRate').value),tierMode:$('fbTierMode').value,lockEarly:$('fbLock').value==='yes',serviceRate:Number($('fbService').value),tiers:$('fbMethod').value==='tier'?readFundingTiers('fb'):clone(old.tiers),from,to};if(l.rebateTiming==='instant'&&l.rebateMethod==='tier')throw Error('累计阶梯请使用月末、季末或年末核验；即时核验使用固定比例。');data.bindingVersions=data.bindingVersions||[];data.bindingVersions.push(clone(old));data.bindings[data.bindings.indexOf(old)]=l;save();finishDetail();return toast('客户策略资金时点已保存，新销售使用新版本。')}
  if(f.id==='fundingSaleForm'){if($('role').value!=='sales')throw Error('请切换为销售角色提交销售完成事件。');const s=postFundingSale({kind:$('saleKind').value,customer:$('saleCustomer').value,doc:$('saleDoc').value,line:$('saleLine').value,sku:$('saleSku').value.trim(),base:cents($('saleAmount').value),qty:Number($('saleQty').value),date:$('saleDate').value,original:$('saleOriginal').value});log('销售与资金同步',s.id+' / '+s.status+'，获取规则 '+s.rule.id+' V'+s.rule.version);finishDetail();return toast(s.status==='posted'?'销售已入账，资金池及客户数据已更新。':s.status==='period'?'销售已累计，未到期间核验前不增加可用资金。':'销售已记录，超过上限的资金等待处理。')}
  if(f.id==='fundingPayoutForm'){requireFundingFinance();const b=data.batches.find(b=>b.id===f.dataset.id);if(b?.status!=='approved'||b.kind!=='rebate'||data.date<b.period.end)throw Error('该批次尚未满足返利清偿条件。');const group=fundingGroups().find(g=>g.key===b.key);if(group?.delta<0)throw Error('原销售调整后应享减少，先进入冲销或追偿核对，暂停继续发放。');const amount=cents($('rebatePayAmount').value),ref=$('rebatePayRef').value.trim(),paid=sum(data.payouts.filter(p=>p.batch===b.id).map(p=>p.amount));if(data.payouts.some(p=>p.ref===ref)||!ref)throw Error('财务流水号为空或已回写，不能重复发放。');if(amount<=0||amount>b.amount-paid||amount>fundingPoolTotals(b.targetPool).available)throw Error('超过批次应付或客户返利池可用余额。');data.payouts.push({id:nextId('REBATE-PAY-',data.payouts),batch:b.id,pool:b.targetPool,customer:b.customer,amount,ref,method:$('rebatePayMethod').value,date:data.date});log('客户返利清偿',b.id+' / '+money(amount)+'，不再次扣来源池。');closeModal();render();return toast('返利清偿已回写，客户返利池和客户台账已同步。')}
  }catch(error){fundingFail(error)}});
 
-function syncFundingReturnFields(){if(!$('fundingSaleForm'))return;const isReturn=$('saleKind').value==='return',original=$('saleOriginal');original.disabled=!isReturn;original.required=isReturn;$('saleCustomer').disabled=isReturn;$('saleSku').readOnly=isReturn;for(const id of ['saleAmount','saleQty'])$(id).removeAttribute('max');$('saleDate').removeAttribute('min');if(isReturn&&original.value){const s=state.funding.sales.find(s=>s.id===original.value),returns=state.funding.sales.filter(r=>r.original===s.id);$('saleCustomer').value=s.customer;$('saleSku').value=s.sku;const base=s.base+sum(returns.map(r=>r.base)),qty=s.qty+sum(returns.map(r=>r.qty));$('saleAmount').value=base/100;$('saleAmount').max=base/100;$('saleQty').value=qty;$('saleQty').max=qty;$('saleDate').min=s.date;if(!base)$('fundingError').textContent='该原销售已全额退货，请选择其他销售行。'}}
+function syncFundingReturnFields(fill=true){if(!$('fundingSaleForm'))return;const isReturn=$('saleKind').value==='return',original=$('saleOriginal');original.disabled=!isReturn;original.required=isReturn;$('saleCustomer').disabled=isReturn;$('saleSku').readOnly=isReturn;for(const id of ['saleAmount','saleQty'])$(id).removeAttribute('max');$('saleDate').removeAttribute('min');if(isReturn&&original.value){const s=state.funding.sales.find(s=>s.id===original.value),returns=state.funding.sales.filter(r=>r.original===s.id);$('saleCustomer').value=s.customer;$('saleSku').value=s.sku;const base=s.base+sum(returns.map(r=>r.base)),qty=s.qty+sum(returns.map(r=>r.qty));if(fill)$('saleAmount').value=base/100;$('saleAmount').max=base/100;if(fill)$('saleQty').value=qty;$('saleQty').max=qty;$('saleDate').min=s.date;if(!base)$('fundingError').textContent='该原销售已全额退货，请选择其他销售行。'}}
 document.addEventListener('change',e=>{if(['saleKind','saleOriginal'].includes(e.target.id))syncFundingReturnFields()});
+
+function syncFundingConfigVisibility(){const field=(id,show)=>{const node=$(id);if(!node)return;node.closest('.field').hidden=!show;node.disabled=!show},section=(id,show)=>{const node=$(id);if(!node)return;node.hidden=!show;node.querySelectorAll('input,select').forEach(x=>x.disabled=!show)};if($('frMethod')){const m=$('frMethod').value;field('frRate',m==='rate');field('frUnit',m==='quantity');section('frTierSection',m==='tier')}if($('fbMethod')){const tier=$('fbMethod').value==='tier';field('fbRate',!tier);field('fbTierMode',tier);section('fbTierSection',tier)}}
+document.addEventListener('change',e=>{if(['frMethod','fbMethod'].includes(e.target.id))syncFundingConfigVisibility()});

diff --git a/09-设计与原型/全费用管理/funding-links.js b/09-设计与原型/全费用管理/funding-links.js
@@ -13,7 +13,7 @@ submitActivity=function(form){const id=$('activitySourcePool')?.value||state.act
 approve=function(id,reject=false){const a=state.activities.find(a=>a.id===id);activityFundingContext=a.fundingPoolId||MAIN_POOL;try{return beforeFundingApprove(id,reject)}finally{activityFundingContext=null;if(!detailPage)render()}};
 approvalView=function(){ensureFunding();return beforeFundingApprovalView()+`<section class="card" style="margin-top:24px"><h2>资金入池与客户返利期间核验</h2>${table(['批次 / 期间','客户','类型及金额','节点','操作'],state.funding.batches.filter(b=>b.status==='pending').map(b=>[b.id+' / '+b.period.key,customer(b.customer).name,(b.kind==='earn'?'销售获取':'客户返利')+' '+money(b.amount),roles[['business','finance'][b.step]],`<button data-funding-batch="${b.id}">进入核验</button>`]))}</section>`};
 settlementView=function(){ensureFunding();return beforeFundingSettlement()+`<section class="card" style="margin-top:24px"><h2>客户返利应付与发放</h2>${table(['批次 / 客户','客户专属池','已确认应付','已发放','待付','操作'],state.funding.batches.filter(b=>b.kind==='rebate'&&b.status==='approved').map(b=>{const paid=sum(state.funding.payouts.filter(p=>p.batch===b.id).map(p=>p.amount));return[b.id+' / '+customer(b.customer).name,b.targetPool,money(b.amount),money(paid),money(b.amount-paid),`<button data-funding-payout="${b.id}" ${paid===b.amount?'disabled':''}>${paid===b.amount?'已清偿':'登记客户返利发放'}</button>`]}))}</section>`};
-render=function(){ensureFunding();beforeFundingRender();if(detailPage?.route.kind==='policy'&&$('fullPageBody')){const p=state.policySchemes.find(p=>p.id===detailPage.route.id);if(p)$('fullPageBody').insertAdjacentHTML('beforeend',customerFundingPanel(p.customer))}};
+render=function(){ensureFunding();beforeFundingRender();syncFundingConfigVisibility();syncFundingReturnFields(false);if(detailPage?.route.kind==='policy'&&$('fullPageBody')){const p=state.policySchemes.find(p=>p.id===detailPage.route.id);if(p)$('fullPageBody').insertAdjacentHTML('beforeend',customerFundingPanel(p.customer))}};
 document.addEventListener('click',e=>{const b=e.target.closest('button');if(!b)return;if(b.dataset.fundingGo){fundingTab=b.dataset.fundingGo;navigate('funding')}if(b.dataset.fundingClientConfig){const l=state.funding.bindings.find(l=>l.customer===b.dataset.fundingClientConfig);if(l)openFundingBinding(l.id)}});
 
 const oldFundingSandboxInitial=initialFundSandbox;

diff --git a/09-设计与原型/全费用管理/README.md b/09-设计与原型/全费用管理/README.md
@@ -15,7 +15,7 @@
 
 原演示期初仅迁移一次，不重复增加来源；原有活动、政策、试算与清偿记录保留。相同销售行拦截重复；退货继承原快照；规则改版不重算历史；待审明细变化拦截批准但可驳回重报；年返来源不足保留应享；转池后应享减少暂停继续发放，待冲销/追偿，不自动抹账。共享来源余额不能跨客户汇总。
 
-实现：`funding-engine.js`、`funding-ui.js`、`funding-events.js`、`funding-links.js`，由 `pack_schemes.py` 嵌入 HTML。验证：`qa_funding.mjs`、`qa_funding_edges.mjs` 及原有7组回归脚本。当前是浏览器本地持久账本，未连接OMS、ERP、银行、库存或真实OA，未自动执行关账、追偿冲销及全部19类策略资格判断。模拟业务日只用于评审演示。
+实现：`funding-engine.js`、`funding-ui.js`、`funding-events.js`、`funding-links.js`，由 `pack_schemes.py` 嵌入 HTML。验证：`qa_funding.mjs`、`qa_funding_edges.mjs`、`qa_funding_ui.mjs` 及原有7组回归脚本。当前是浏览器本地持久账本，未连接OMS、ERP、银行、库存或真实OA，未自动执行关账、追偿冲销及全部19类策略资格判断。模拟业务日只用于评审演示。
 
 ## 策略资金池流转设计
 
